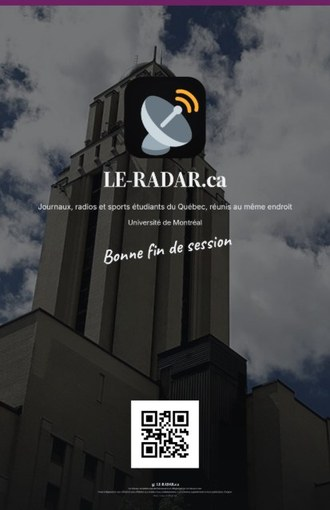
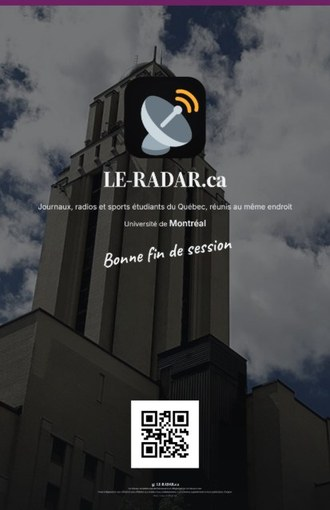
feat(affiches): larger bold institution name on every campus
Same lockup as McGill (core slightly bigger, semibold). The English
“University” suffix stays only on bilingual anglophone posters.

Changed region(s): [[0.303, 0.4706, 0.697, 0.5294], [0.3636, 0.4118, 0.6364, 0.4412]]

diff --git a/affiches/poster-builder.js b/affiches/poster-builder.js
@@ -76,92 +76,92 @@ const GREETINGS_EN = {
 const CAMPUSES = [
   { slug: 'generique', line: null, lineEn: null, bilingual: false, places: null, hints: null, label: 'Générique' },
   {
-    slug: 'laval', line: 'Université Laval', bilingual: false, label: 'Université Laval',
+    slug: 'laval', line: 'Université Laval', prefix: 'Université ', core: 'Laval', bilingual: false, label: 'Université Laval',
     places: ['université laval'],
     hints: ['université laval', 'adrien-pouliot', 'alphonse-marie-parent', 'biermans', 'ernest-lemieux', 'pavillon dkn', 'casault', 'palasis', 'bonenfant', 'grand axe'],
   },
   {
-    slug: 'mcgill', line: 'Université McGill', lineEn: 'McGill University', core: 'McGill', bilingual: true, label: 'Université McGill',
+    slug: 'mcgill', line: 'Université McGill', lineEn: 'McGill University', prefix: 'Université ', core: 'McGill', bilingual: true, label: 'Université McGill',
     places: ['mcgill'],
     hints: ['mcgill'],
   },
   {
-    slug: 'udem', line: 'Université de Montréal', bilingual: false, label: 'Université de Montréal',
+    slug: 'udem', line: 'Université de Montréal', prefix: 'Université de ', core: 'Montréal', bilingual: false, label: 'Université de Montréal',
     places: ['université de montréal'],
     hints: ['université de montréal', 'roger-gaudry', 'école polytechnique de montréal'],
   },
   {
-    slug: 'uqam', line: 'Université du Québec à Montréal', bilingual: false, label: 'Université du Québec à Montréal',
+    slug: 'uqam', line: 'Université du Québec à Montréal', prefix: 'Université du Québec à ', core: 'Montréal', bilingual: false, label: 'Université du Québec à Montréal',
     places: ['uqam'],
     hints: ['uqam', 'judith-jasmin'],
   },
   {
-    slug: 'concordia', line: 'Université Concordia', lineEn: 'Concordia University', core: 'Concordia', bilingual: true, label: 'Université Concordia',
+    slug: 'concordia', line: 'Université Concordia', lineEn: 'Concordia University', prefix: 'Université ', core: 'Concordia', bilingual: true, label: 'Université Concordia',
     places: ['concordia'],
     hints: ['concordia', 'hall building', 'loyola'],
   },
   {
-    slug: 'sherbrooke', line: 'Université de Sherbrooke', bilingual: false, label: 'Université de Sherbrooke',
+    slug: 'sherbrooke', line: 'Université de Sherbrooke', prefix: 'Université de ', core: 'Sherbrooke', bilingual: false, label: 'Université de Sherbrooke',
     places: ['sherbrooke', 'longueuil'],
     hints: ['université de sherbrooke', 'udes', 'georges-cabana', 'univestrie'],
   },
   {
-    slug: 'bishops', line: 'Université Bishop’s', lineEn: 'Bishop’s University', core: 'Bishop’s', bilingual: true, label: 'Université Bishop’s',
+    slug: 'bishops', line: 'Université Bishop’s', lineEn: 'Bishop’s University', prefix: 'Université ', core: 'Bishop’s', bilingual: true, label: 'Université Bishop’s',
     places: ['bishop'],
     hints: ['bishop'],
   },
   {
-    slug: 'uqtr', line: 'Université du Québec à Trois-Rivières', bilingual: false, label: 'UQTR',
+    slug: 'uqtr', line: 'Université du Québec à Trois-Rivières', prefix: 'Université du Québec à ', core: 'Trois-Rivières', bilingual: false, label: 'UQTR',
     places: ['uqtr', 'trois-rivières', 'trois-rivieres'],
     hints: ['uqtr', 'trois-rivières', 'trois rivieres'],
   },
   {
-    slug: 'uqac', line: 'Université du Québec à Chicoutimi', bilingual: false, label: 'UQAC',
+    slug: 'uqac', line: 'Université du Québec à Chicoutimi', prefix: 'Université du Québec à ', core: 'Chicoutimi', bilingual: false, label: 'UQAC',
     places: ['uqac', 'chicoutimi'],
     hints: ['uqac', 'chicoutimi'],
   },
   {
-    slug: 'uqar', line: 'Université du Québec à Rimouski', bilingual: false, label: 'UQAR',
+    slug: 'uqar', line: 'Université du Québec à Rimouski', prefix: 'Université du Québec à ', core: 'Rimouski', bilingual: false, label: 'UQAR',
     places: ['uqar', 'rimouski'],
     hints: ['uqar', 'rimouski', 'ursulines'],
   },
   {
-    slug: 'uqo', line: 'Université du Québec en Outaouais', bilingual: false, label: 'UQO',
+    slug: 'uqo', line: 'Université du Québec en Outaouais', prefix: 'Université du Québec en ', core: 'Outaouais', bilingual: false, label: 'UQO',
     places: ['uqo', 'outaouais'],
     hints: ['uqo', 'outaouais', 'lucien-brault'],
   },
   {
-    slug: 'uqat', line: 'Université du Québec en Abitibi-Témiscamingue', bilingual: false, label: 'UQAT',
+    slug: 'uqat', line: 'Université du Québec en Abitibi-Témiscamingue', prefix: 'Université du Québec en ', core: 'Abitibi-Témiscamingue', bilingual: false, label: 'UQAT',
     places: ['uqat', 'abitibi', 'rouyn'],
     hints: ['uqat', 'abitibi', 'rouyn', 'premiers peuples'],
   },
   {
-    slug: 'teluq', line: 'TÉLUQ', bilingual: false, label: 'TÉLUQ',
+    slug: 'teluq', line: 'TÉLUQ', prefix: '', core: 'TÉLUQ', bilingual: false, label: 'TÉLUQ',
     places: ['téluq', 'teluq'],
     hints: ['téluq', 'teluq'],
   },
   {
-    slug: 'ets', line: 'École de technologie supérieure', bilingual: false, label: 'ÉTS',
+    slug: 'ets', line: 'École de technologie supérieure', prefix: 'École de ', core: 'technologie supérieure', bilingual: false, label: 'ÉTS',
     places: ['éts', 'ets', 'technologie supérieure'],
     hints: ['technologie superieure', 'technologie supérieure', 'école de technologie'],
   },
   {
-    slug: 'enap', line: 'ENAP', bilingual: false, label: 'ENAP',
+    slug: 'enap', line: 'ENAP', prefix: '', core: 'ENAP', bilingual: false, label: 'ENAP',
     places: ['enap'],
     hints: ['enap'],
   },
   {
-    slug: 'inrs', line: 'INRS', bilingual: false, label: 'INRS',
+    slug: 'inrs', line: 'INRS', prefix: '', core: 'INRS', bilingual: false, label: 'INRS',
     places: ['inrs'],
     hints: ['inrs'],
   },
   {
-    slug: 'poly', line: 'Polytechnique Montréal', bilingual: false, label: 'Polytechnique Montréal',
+    slug: 'poly', line: 'Polytechnique Montréal', prefix: '', core: 'Polytechnique Montréal', bilingual: false, label: 'Polytechnique Montréal',
     places: ['polytechnique'],
     hints: ['polytechnique'],
   },
   {
-    slug: 'hec', line: 'HEC Montréal', bilingual: false, label: 'HEC Montréal',
+    slug: 'hec', line: 'HEC Montréal', prefix: '', core: 'HEC Montréal', bilingual: false, label: 'HEC Montréal',
     places: ['hec'],
     hints: ['hec montréal', 'hec montreal', 'decelles'],
   },
@@ -369,26 +369,38 @@ function wrapWords(ctx, text, maxW) {
   return lines;
 }
 
-function fillUniLockup(ctx, core, y, small, large) {
-  const left = 'Université ';
-  const right = ' University';
+function uniLockupParts(campus, kind) {
+  if (!campus || !campus.core) return null;
+  const left = campus.prefix != null ? campus.prefix : 'Université ';
+  const right = (kind === 'bilingue' && campus.bilingual) ? ' University' : (campus.suffix || '');
+  return { left, core: campus.core, right };
+}
+
+function fillUniLockup(ctx, parts, y, small, large) {
+  const left = parts.left || '';
+  const right = parts.right || '';
+  const core = parts.core;
   ctx.textBaseline = 'alphabetic';
   ctx.font = `400 ${small}px "LR Sans"`;
-  const wLeft = textW(ctx, left);
-  const wRight = textW(ctx, right);
+  const wLeft = left ? textW(ctx, left) : 0;
+  const wRight = right ? textW(ctx, right) : 0;
   ctx.font = `600 ${large}px "LR Sans Semi"`;
   const wCore = textW(ctx, core);
   let x = (ctx.canvas.width - (wLeft + wCore + wRight)) / 2;
   const base = y + large * 0.82;
   ctx.fillStyle = INK;
-  ctx.font = `400 ${small}px "LR Sans"`;
-  ctx.fillText(left, x, base);
-  x += wLeft;
+  if (left) {
+    ctx.font = `400 ${small}px "LR Sans"`;
+    ctx.fillText(left, x, base);
+    x += wLeft;
+  }
   ctx.font = `600 ${large}px "LR Sans Semi"`;
   ctx.fillText(core, x, base);
   x += wCore;
-  ctx.font = `400 ${small}px "LR Sans"`;
-  ctx.fillText(right, x, base);
+  if (right) {
+    ctx.font = `400 ${small}px "LR Sans"`;
+    ctx.fillText(right, x, base);
+  }
   ctx.textBaseline = 'top';
   return large;
 }
@@ -623,11 +635,9 @@ function compose(opts) {
     });
   }
   if (opts.showUni !== false) {
-    if (kind === 'bilingue' && campus.core) {
-      y += fillUniLockup(ctx, campus.core, y, uniSize, uniCore) + gapBlock;
-    } else if (campus.line) {
-      ctx.font = `400 ${uniSize}px "LR Sans"`;
-      y += fillCentered(ctx, campus.line, y, INK) + gapBlock;
+    const uniParts = uniLockupParts(campus, kind);
+    if (uniParts) {
+      y += fillUniLockup(ctx, uniParts, y, uniSize, uniCore) + gapBlock;
     }
   }
   const greet = GREETINGS[opts.greeting];

diff --git a/affiches/index.html b/affiches/index.html
@@ -267,6 +267,6 @@
   <script src="../engage-prompt.js" defer></script>
   <script src="../dev/midwidth-preview.js?v=wide-auto-e91"></script>
   <script src="../dev/wide-desktop-preview.js?v=wide-auto-e91"></script>
-  <script src="./poster-builder.js?v=lock-qr"></script>
+  <script src="./poster-builder.js?v=uni-core"></script>
 </body>
 </html>
